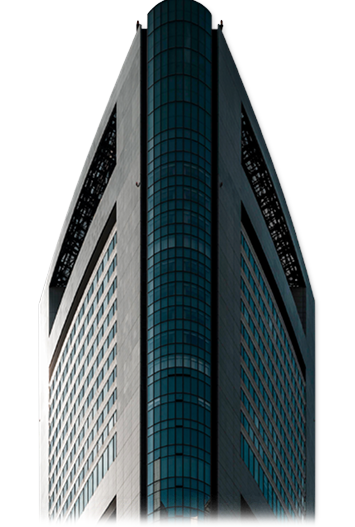
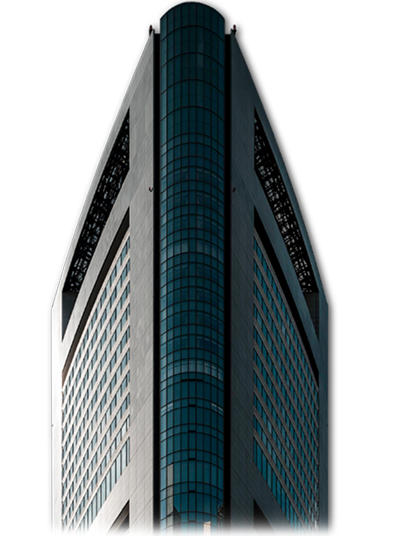
spacing fixes

diff --git a/src/app/law/local-law-parking/page.jsx b/src/app/law/local-law-parking/page.jsx
@@ -97,9 +97,9 @@ const Page = () => {
           </div>
         </div>
 
-        <div className="bg-[#8AD5B7] w-[30%] mx-auto text-[#DCE2E2] h-2 my-10"></div>
+        <div className="bg-[#8AD5B7] w-[30%] mx-auto text-[#DCE2E2] h-2 mt-16 mb-8"></div>
 
-        <div className="flex flex-col items-center justify-center gap-6 lg:gap-10 w-full lg:w-[80%] mx-auto">
+        <div className="flex flex-col items-center justify-center gap-4 lg:gap-6 w-full lg:w-[80%] mx-auto">
           <h2 className="text-[#8AD5B7] text-3xl lg:text-5xl font-semibold font-conthrax text-center">
             Know About LL 126
           </h2>
@@ -145,12 +145,12 @@ const Page = () => {
       </section>
 
       {/*Section 02 */}
-      <section className="px-6 md:px-10 xl:px-16 pt-6 lg:pt-16 text-[#DCE2E2]">
-        <div className="flex flex-col items-center justify-center gap-6 lg:gap-10 w-full lg:w-[90%] mx-auto pb-10">
+      <section className="px-6 md:px-10 xl:px-16 pb-8 pt-10 lg:pt-16 text-[#DCE2E2]">
+        <div className="flex flex-col items-center justify-center gap-4 lg:gap-6 w-full lg:w-[90%] mx-auto pb-10">
           <h2 className="text-center text-2xl md:text-3xl lg:text-5xl font-semibold font-conthrax text-[#8AD5B7]">
             {Compliance_Deadlines.title}
           </h2>
-          <p className="text-[#89A096] text-base font-semibold text-center">
+          <p className="text-[#89A096] text-base font-semibold text-center lg:max-w-4xl mx-auto">
             {Compliance_Deadlines.text}
           </p>
           <table className="border-collapse border border-[#8AD5B7] w-full">
@@ -183,7 +183,7 @@ const Page = () => {
           </table>
         </div>
 
-        <div className="flex flex-col items-center 2xl:items-start justify-center gap-6 lg:gap-10 w-full lg:w-[95%] mx-auto pb-10">
+        <div className="flex flex-col items-center 2xl:items-start justify-center gap-6 lg:gap-10 w-full lg:w-[95%] mx-auto pt-10">
           <h2 className="text-[#8AD5B7] text-3xl lg:text-5xl font-semibold font-conthrax text-center w-full">
             What This Means for you
           </h2>
@@ -224,7 +224,7 @@ const Page = () => {
           </div>
         </div>
 
-        <div className="w-full mx-auto flex flex-col lg:flex-row items-center lg:items-stretch justify-center gap-8 sm:gap-12">
+        <div className="w-full mx-auto flex flex-col lg:flex-row items-center lg:items-stretch justify-center gap-8 sm:gap-12 pt-16">
           <Image
             src="/pics/local-law-parking-pic2.png"
             alt="Inspection Services"
@@ -257,7 +257,7 @@ const Page = () => {
       </section>
 
       {/* Section 03 */}
-      <section className="px-6 md:px-10 xl:px-16 py-6 lg:py-16 text-[#DCE2E2]">
+      <section className="px-6 md:px-10 xl:px-16 py-10 lg:py-16 text-[#DCE2E2]">
         <h2 className="text-center text-[#8AD5B7] text-3xl lg:text-5xl font-semibold font-conthrax mb-6 lg:mb-10">
           Our Offerings
         </h2>
@@ -283,7 +283,7 @@ const Page = () => {
         </div>
 
         <div>
-          <h2 className="text-center text-[#8AD5B7] text-3xl lg:text-5xl font-semibold font-conthrax mb-2">
+          <h2 className="text-center text-[#8AD5B7] text-3xl lg:text-5xl font-semibold font-conthrax mb-2 mt-6 lg:mt-10">
             {" "}
             How It Works
           </h2>
@@ -376,7 +376,7 @@ const Page = () => {
         </div>
 
         {/* why PBS */}
-        <div className="w-full flex flex-col lg:flex-row items-center md:items-stretch 2xl:justify-center gap-3 sm:gap-6 2xl:gap-16 py-10">
+        <div className="w-full flex flex-col lg:flex-row items-center md:items-stretch 2xl:justify-center gap-3 sm:gap-6 2xl:gap-16 py-16 lg:py-16">
           <div className="w-full lg:w-[45%] xl:w-1/2 2xl:w-[50%] 3xl:w-[35%] flex items-end">
             <Image
               src={whyPBS.img}

diff --git a/src/app/law/local-law-parapet/page.jsx b/src/app/law/local-law-parapet/page.jsx
@@ -55,7 +55,7 @@ const Page = () => {
 
       {/*Section 01  */}
       <section className="px-6 md:px-10 xl:px-16 pt-24 md:pt-16 lg:pt-24 text-[#DCE2E2]">
-        <div className="flex flex-col lg:flex-row items-center lg:items-stretch justify-between 2xl:justify-center 2xl:gap-16 w-full pb-6 lg:pb-10">
+        <div className="flex flex-col lg:flex-row items-center lg:items-stretch justify-between 2xl:justify-center 2xl:gap-16 w-full pb-10 lg:pb-16">
                   <Image
                     src="/pics/local-law-parapet-pic2.png"
                     alt="Inspection Services"
@@ -161,7 +161,7 @@ const Page = () => {
           </p>
         </div>
 
-        <div className="relative flex flex-col items-center justify-center gap-4 sm:gap-6 lg:gap-8 w-full mx-auto pt-4 sm:pt-6 lg:pt-10">
+        <div className="relative flex flex-col items-center justify-center gap-4 sm:gap-6 lg:gap-8 w-full mx-auto pt-4 sm:pt-10 lg:pt-16">
           {/* Heading */}
           <h2 className="text-[#8AD5B7] text-2xl sm:text-3xl lg:text-5xl font-semibold font-conthrax text-center w-[80%] xl:w-[65%] mx-auto">
             Key Compliance Details you should know
@@ -223,10 +223,10 @@ const Page = () => {
         </div>
       </section>
 
-      <div className="w-[30%] mx-auto bg-[#8AD5B7] h-2 mt-6 lg:mt-10"></div>
+      <div className="w-[30%] mx-auto bg-[#8AD5B7] h-2 mt-10 lg:mt-16"></div>
 
       {/* Section 03 */}
-      <section className="px-6 md:px-10 xl:px-16 pt-6 lg:pt-10 text-[#DCE2E2]">
+      <section className="px-6 md:px-10 xl:px-16 pt-4 lg:pt-8 text-[#DCE2E2]">
         <div className="relative flex flex-col items-center justify-center gap-4 sm:gap-6 lg:gap-8 w-[90%] mx-auto pb-4 sm:pb-6 lg:pb-10">
           <h2 className="text-3xl lg:text-5xl font-semibold font-conthrax text-center">
             {Process.heading}
@@ -275,7 +275,7 @@ const Page = () => {
           </div>
         </div>
 
-        <div className="w-[30%] mx-auto bg-[#8AD5B7] h-2"></div>
+        <div className="w-[30%] mx-auto bg-[#8AD5B7] h-2 mt-16"></div>
 
         <div className="w-full lg:w-[90%] mx-auto overflow-hidden relative text-[#DCE2E2] py-6 sm:py-8 lg:py-10">
           {/* Moved title section here and fixed spacing */}
@@ -289,7 +289,7 @@ const Page = () => {
           </div>
 
           {/* Content Items */}
-          <div className="w-full flex flex-col gap-6 lg:gap-8 mb-6 lg:mb-10">
+          <div className="w-full flex flex-col gap-6 lg:gap-8 mb-10 lg:mb-16">
             {WhyPBS.items.map((item, index) => (
               <div
                 key={index}

diff --git a/src/app/inspection-services/page.jsx b/src/app/inspection-services/page.jsx
@@ -41,7 +41,7 @@ const InspectionServices = () => {
         <h2 className="text-4xl font-semibold font-conthrax w-2/3 mx-auto text-center mb-3 lg:mb-6">
           Ensuring safety, Compliance & Peace of Mind
         </h2>
-        <p className="text-xl font-semibold text-[#89A096] w-5/6 mx-auto text-center mb-6 lg:mb-10">
+        <p className="text-xl font-semibold text-[#89A096] w-full mx-auto text-center mb-6 lg:mb-10">
            Maintaining your property isn’t just an obligation, it’s a necessity
           to protect lives, uphold legal standards, and preserve long-term
           value. At PBS we turn complexity into clarity with inspections
@@ -57,7 +57,7 @@ const InspectionServices = () => {
             className="w-[80%] lg:w-[40%] 2xl:w-[20%] h-auto object-contain rounded-lg mb-6 lg:mb-0 lg:mx-0 mx-auto"
           />
           <div className="w-full lg:w-[55%] flex flex-col items-center lg:items-start justify-end text-center lg:text-left px-4 lg:px-0">
-            <h1 className="text-[#8AD5B7] text-3xl lg:text-[55px] font-semibold font-conthrax mb-2 leading-tight">
+            <h1 className="text-[#8AD5B7] text-4xl xl:text-[55px] font-semibold font-conthrax mb-2 leading-tight">
               Why Compliance Matter
             </h1>
             <div className="bg-[#8AD5B7] w-full lg:w-[40%] text-[#DCE2E2] h-2 mb-6"></div>
@@ -215,11 +215,11 @@ const InspectionServices = () => {
             alt="image"
             width={200}
             height={200}
-            className="w-[150px] h-[150px] lg:w-[200px] lg:h-[200px] lg:absolute lg:-top-[40%] 2xl:-top-[50%] object-contain"
+            className="w-[150px] h-[150px] lg:w-[200px] lg:h-[200px] lg:absolute lg:-top-[50%] 2xl:-top-[50%] object-contain"
            
           />
           {/* Headline: Force 2 lines at lg */}
-          <h2 className="font-conthrax text-[#8AD5B7] text-2xl md:text-3xl lg:text-4xl font-semibold text-center lg:text-left lg:ml-[25%] max-w-full w-full lg:max-w-[22ch] 2xl:max-w-[22ch]">
+          <h2 className="font-conthrax text-[#8AD5B7] text-2xl md:text-3xl xl:text-4xl font-semibold text-center lg:text-left lg:ml-[25%] max-w-full w-full lg:max-w-[22ch] 2xl:max-w-[22ch]">
             {section.headline}
           </h2>
         </div>

diff --git a/src/app/law/local-law/page.jsx b/src/app/law/local-law/page.jsx
@@ -41,7 +41,7 @@ const Page = () => {
     </div>
   </div>
       {/*Section 01  */}
-      <section className="px-6 md:px-10 xl:px-16 pt-16 lg:pt-24 text-[#DCE2E2]">
+      <section className="px-6 md:px-10 xl:px-16 pt-16 pb-8 lg:pt-24 text-[#DCE2E2]">
         <div className="flex flex-col lg:flex-row items-center lg:items-stretch justify-center gap-10 2xl:gap-16 w-full">
         
           <Image
@@ -115,7 +115,7 @@ const Page = () => {
           </div>
         </div>
 
-        <div className="bg-[#8AD5B7] w-[30%] mx-auto text-[#DCE2E2] h-2 my-10"></div>
+        <div className="bg-[#8AD5B7] w-[30%] mx-auto text-[#DCE2E2] h-2 mt-16 mb-8"></div>
 
         <div className="flex flex-col lg:flex-row items-stretch justify-between w-full rounded-lg bg-[#2E3734] py-3 px-6 lg:py-10 lg:px-20 gap-6 lg:gap-12 ">
           <div className="flex-1 w-full lg:w-[50%] flex flex-col justify-between items-center lg:items-start gap-3 rounded-2xl">
@@ -158,10 +158,10 @@ const Page = () => {
       </section>
 
       {/* Section 02 */}
-      <section className="px-6 md:px-10 lg:px-16 2xl:px-24 pb-10 pt-16 text-[#DCE2E2]">
+      <section className="px-6 md:px-10 lg:px-16 2xl:px-24 py-10 lg:py-16 text-[#DCE2E2]">
         <div className="w-full overflow-hidden relative">
           {/* Moved title section here and fixed spacing */}
-          <div className="text-center mb-10 xl:mb-16 py-2">
+          <div className="text-center mb-10 py-2">
             <h1 className="text-[#8AD5B7] text-3xl lg:text-5xl font-semibold font-conthrax mb-4">
               Our Services
             </h1>
@@ -322,7 +322,7 @@ const Page = () => {
       ))}
     </div>
 
-  <div className="w-full mt-0 flex flex-col xl:flex-row gap-6 items-start justify-start">
+  <div className="w-full mt-0 flex flex-col xl:flex-row gap-6 items-start justify-start pl-6 2xl:pl-10">
     <CTA2
       isArrow={false}
       text="Book your Slot Today"

diff --git a/src/app/about-us/page.jsx b/src/app/about-us/page.jsx
@@ -82,9 +82,9 @@ const AboutPage = () => {
 
       {/* The PBS Story Section */}
       <section className="py-16 px-6 lg:px-16 bg-[#37403D] text-[#DCE2E2]">
-        <div className="mt-16 flex flex-col lg:flex-row items-start lg:items-center justify-center gap-12 lg:gap-16">
+        <div className="mt-16 flex flex-col lg:flex-row items-start lg:items-stretch justify-center gap-12 lg:gap-16">
           {/* Story image in a circular background */}
-          <div className="relative w-full lg:w-[37%] xl:w-[28%] 2xl:w-[22%] flex justify-center items-center">
+          <div className="relative w-full lg:w-[30%] 2xl:w-[22%] flex justify-center items-center">
             <Image
               src="/pics/Building.png"
               alt="PBS"
@@ -95,7 +95,7 @@ const AboutPage = () => {
           </div>
 
           {/* Story text content */}
-          <div className="w-full lg:w-[60%] xl:w-[50%] 2xl:w-[40%] space-y-6">
+          <div className="w-full lg:w-[60%] xl:w-[50%] 2xl:w-[40%] space-y-6 h-auto flex flex-col justify-center">
             <h2 className="text-3xl xl:text-[55px] text-center lg:text-left font-semibold font-conthrax text-[#8AD5B7] mb-3 lg:mb-6">
               {story.headline}
             </h2>
@@ -235,7 +235,7 @@ const AboutPage = () => {
 
           {/* Mission content with vertical accent line */}
           <div className="w-full lg:w-3/5 pt-12">
-            <div className="flex items-center lg:justify-start h-36 rounded-lg mb-12 gap-4">
+            <div className="flex items-center lg:justify-start h-36 xl:h-24 rounded-lg mb-12 gap-4">
               <div className="bg-[#8AD5B7] w-2 h-full rounded-lg"></div>
               <h2 className="text-3xl lg:text-5xl font-semibold font-conthrax text-[#DCE2E2] flex flex-col gap-1">
                 <span className="">{mission?.tagline.split(",")[1] + ","}</span>

diff --git a/src/app/services/page.jsx b/src/app/services/page.jsx
@@ -86,7 +86,7 @@ const Page = () => {
       >
         <div className="w-full overflow-hidden relative">
           {/* Moved title section here and fixed spacing */}
-          <div className="text-center my-2 mb-10 py-2">
+          <div className="text-center mb-10 py-2">
             <h1 className="text-[#DCE2E2] text-4xl font-conthrax tracking-widest mb-4">
               PBS delivers expert solutions
             </h1>
@@ -103,7 +103,7 @@ const Page = () => {
                   <div
                     className={`flex flex-col ${
                       service.id % 2 === 1 ? "lg:flex-row" : "lg:flex-row-reverse"
-                    } items-center xl:items-stretch 3xl:items-center lg:justify-between 2xl:justify-center gap-12 p-4 lg:p-6`}
+                    } items-center xl:items-stretch 3xl:items-center lg:justify-between 2xl:justify-center gap-12 px-4 lg:px-6`}
                   >
                     <div className="w-[80%] lg:w-[45%] 2xl:w-[40%] h-full flex justify-center items-start 2xl:items-center">
                       <Image
@@ -160,11 +160,11 @@ const Page = () => {
           </div>
 
           <div
-            className={`w-[30%] h-1 rounded-full bg-[#8AD5B7] mx-auto mt-8 mb-10`}
+            className={`w-[30%] h-1 rounded-full bg-[#8AD5B7] mx-auto mt-12 mb-16`}
           ></div>
 
           <div className="text-[#DCE2E2] text-center">
-            <h4 className="text-4xl font-semibold font-conthrax mb-6">
+            <h4 className="text-4xl font-semibold font-conthrax">
               We Serve Across NYC’s Departments
             </h4>
             <p className="text-base font-semibold max-w-3xl mx-auto">

diff --git a/src/app/owner-representative/page.jsx b/src/app/owner-representative/page.jsx
@@ -44,7 +44,7 @@ const Page = () => {
 
       {/* Section 01 */}
       <section className="px-4 sm:px-6 md:px-10 lg:px-16 py-8 sm:py-16 text-[#DCE2E2]">
-        <div className="flex flex-col lg:flex-row items-center lg:items-stretch justify-between gap-4 sm:gap-6 w-full">
+        <div className="flex flex-col lg:flex-row items-center lg:items-stretch justify-between gap-4 sm:gap-6 w-full pt-8">
           <Image
             src="/pics/owner-repre-1.png"
             alt="owner representative"
@@ -122,7 +122,7 @@ const Page = () => {
       </section>
 
       {/* Section 02 */}
-      <section className="px-4 sm:px-6 md:px-10 lg:px-16 pb-8 sm:pb-10 text-[#DCE2E2]">
+      <section className="px-4 sm:px-6 md:px-10 lg:px-16 pb-8 sm:pb-10 lg:pt-5 text-[#DCE2E2]">
         <div className="flex flex-col items-center justify-center gap-2 sm:gap-3 w-full mb-4 sm:mb-6">
           <h2 className="text-[#DCE2E2] text-3xl sm:text-4xl md:text-5xl lg:text-5xl font-conthrax font-semibold">
             What We Do

diff --git a/src/home-page/AboutCompany.jsx b/src/home-page/AboutCompany.jsx
@@ -68,7 +68,7 @@ const AboutCompany = () => {
   ];
 
   return (
-    <div className="bg-brand-dark text-brand-light px-8 lg:px-16" ref={containerRef}>
+    <div className="bg-brand-dark text-brand-light p-8 lg:p-16" ref={containerRef}>
       <div className="container mx-auto px-6 pt-16 lg:px-12 flex flex-col lg:flex-row justify-between gap-5 xl:gap-8 bg-[#1E2322] bg-opacity-25 rounded-3xl  border-2 border-brand-gray1/50 pb-12 mb-16">
         {/* Left Side - Numbers That Matter */}
         <div className="lg:w-[50%] xl:w-[55%] gsap-animate p-2">
@@ -119,7 +119,7 @@ const AboutCompany = () => {
         </div>
 
       {/* Why NYC Trusts PBS? */}
- <div className="pb-16">
+ <div className="">
             <h2 className="text-3xl text-center lg:text-5xl font-conthrax font-semibold text-[#DCE2E2] mb-3">
               Why NYC Trusts PBS?
             </h2>

diff --git a/src/home-page/HeroCarousel.jsx b/src/home-page/HeroCarousel.jsx
@@ -29,7 +29,7 @@ const HeroCarousel = ({bg,img,text1,text2,text3,text4="",cta,ctaLink, className=
                     <Image
                         src={img}
                         alt="Modern skyscrapers"
-                        className="w-[60%] mx-auto lg:w-full lg:h-full 2xl:h-[85%] mix-blend-luminosity object-contain lg:object-cover object-top-right drop-shadow-[0_0_10px_rgba(0,0,0,0.5)]"
+                        className="w-[60%] mx-auto lg:w-full lg:h-full 2xl:h-[85%] mix-blend-luminosity object-contain lg:object-cover object-top-right drop-shadow-[0_15px_90px_rgba(0,0,0,0.5)] inset-10"
                         width={700}
                         height={500}
                     />

diff --git a/src/home-page/Services.jsx b/src/home-page/Services.jsx
@@ -7,7 +7,7 @@ import { cn } from "@/lib/utils"; // assuming you use a utility for className me
 
 const Services = () => {
   return (
-    <section className="relative text-[#DCE2E2] py-10 px-16 text-center overflow-hidden">
+    <section className="relative text-[#DCE2E2] py-16 px-16 text-center overflow-hidden">
       <Image
         src="/pics/pattern1.png"
         alt="Background Image"

diff --git a/src/app/page.js b/src/app/page.js
@@ -12,10 +12,9 @@ export default function Home() {
       <div className="bg-brand-dark">
         <div className="lg:w-[100%] mx-auto overflow-hidden">
           <Hero />
-          <Services />
           <Alerts />
-          
           <Solutions />
+           <Services />
           <AboutCompany />
         </div>
       </div>
